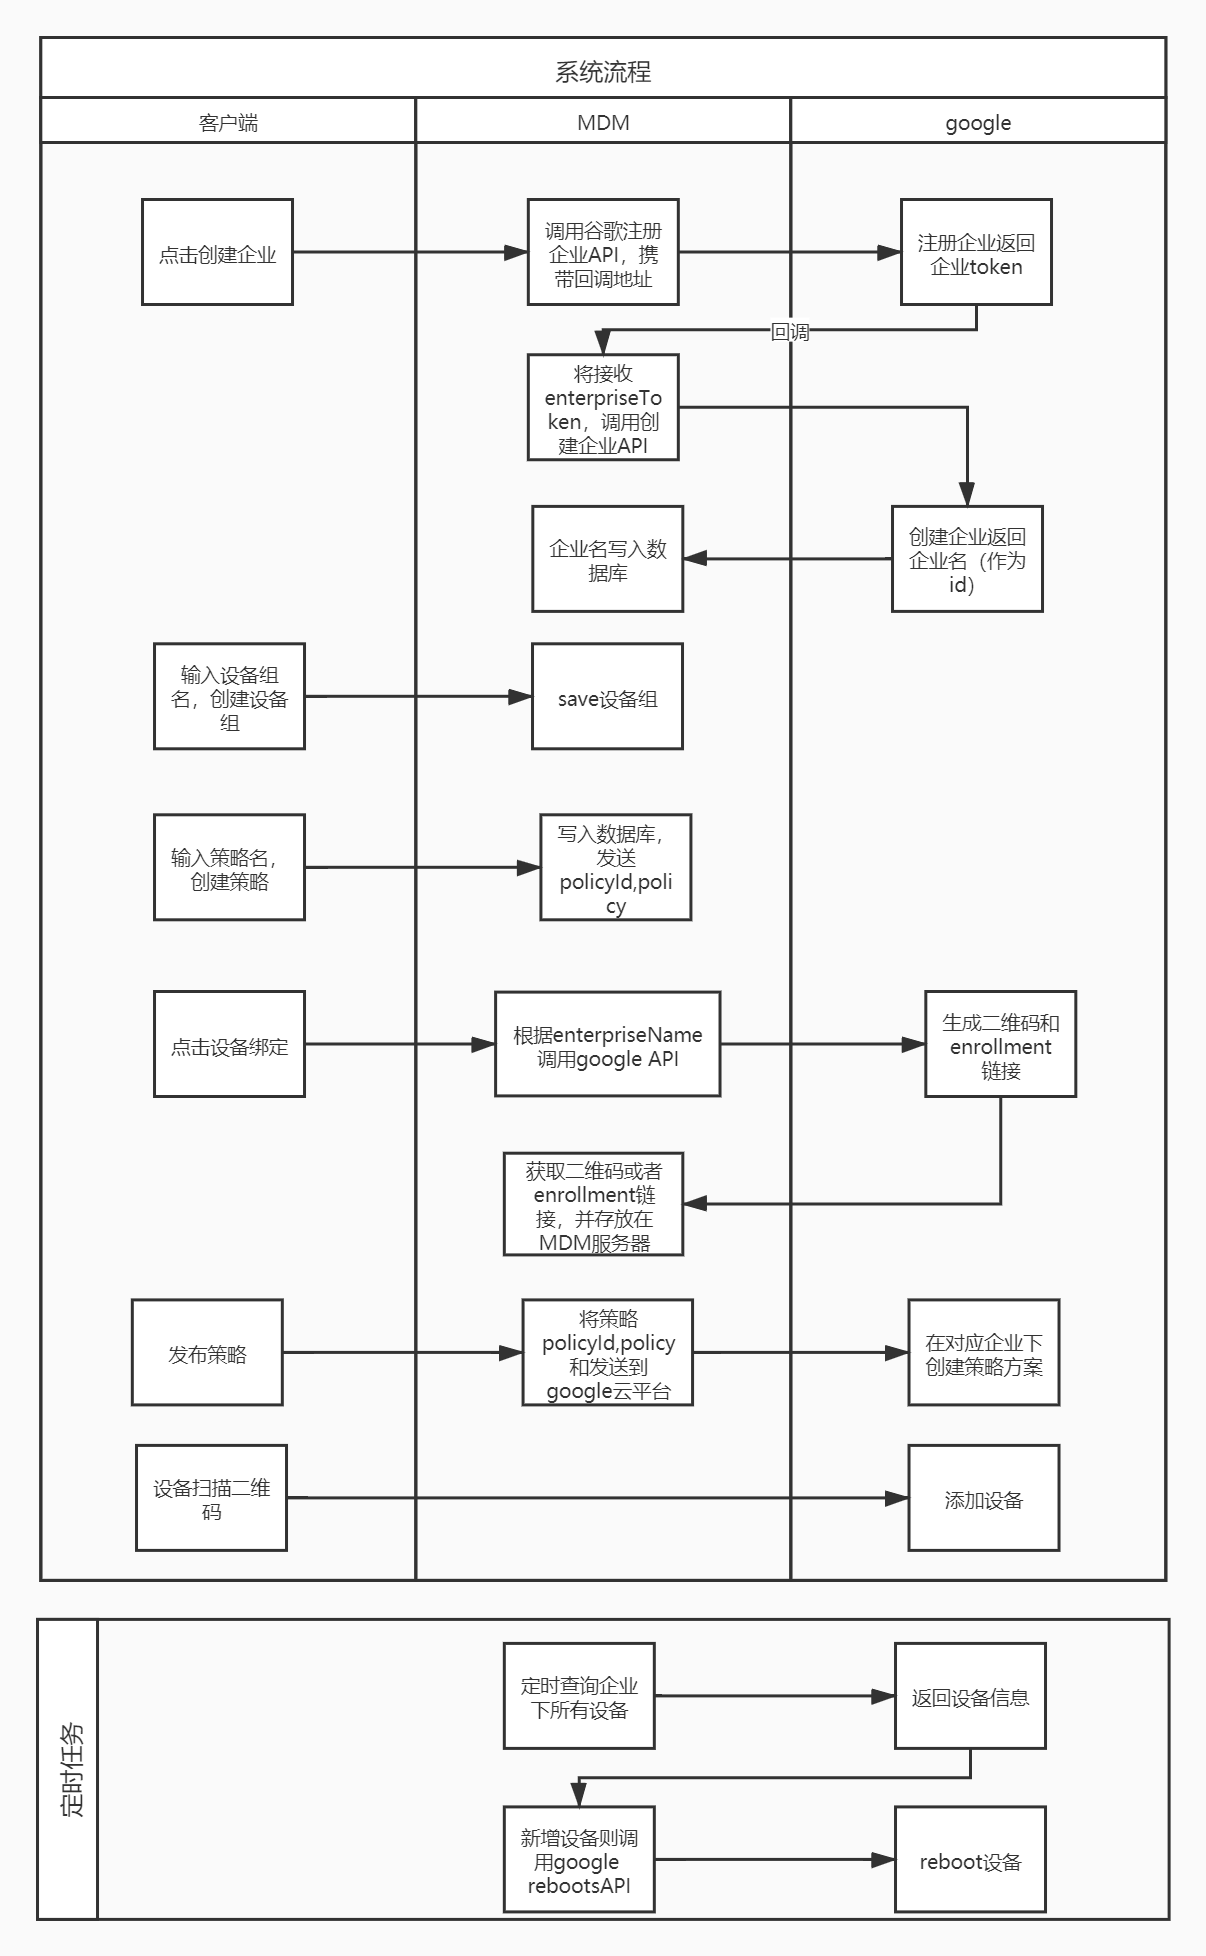
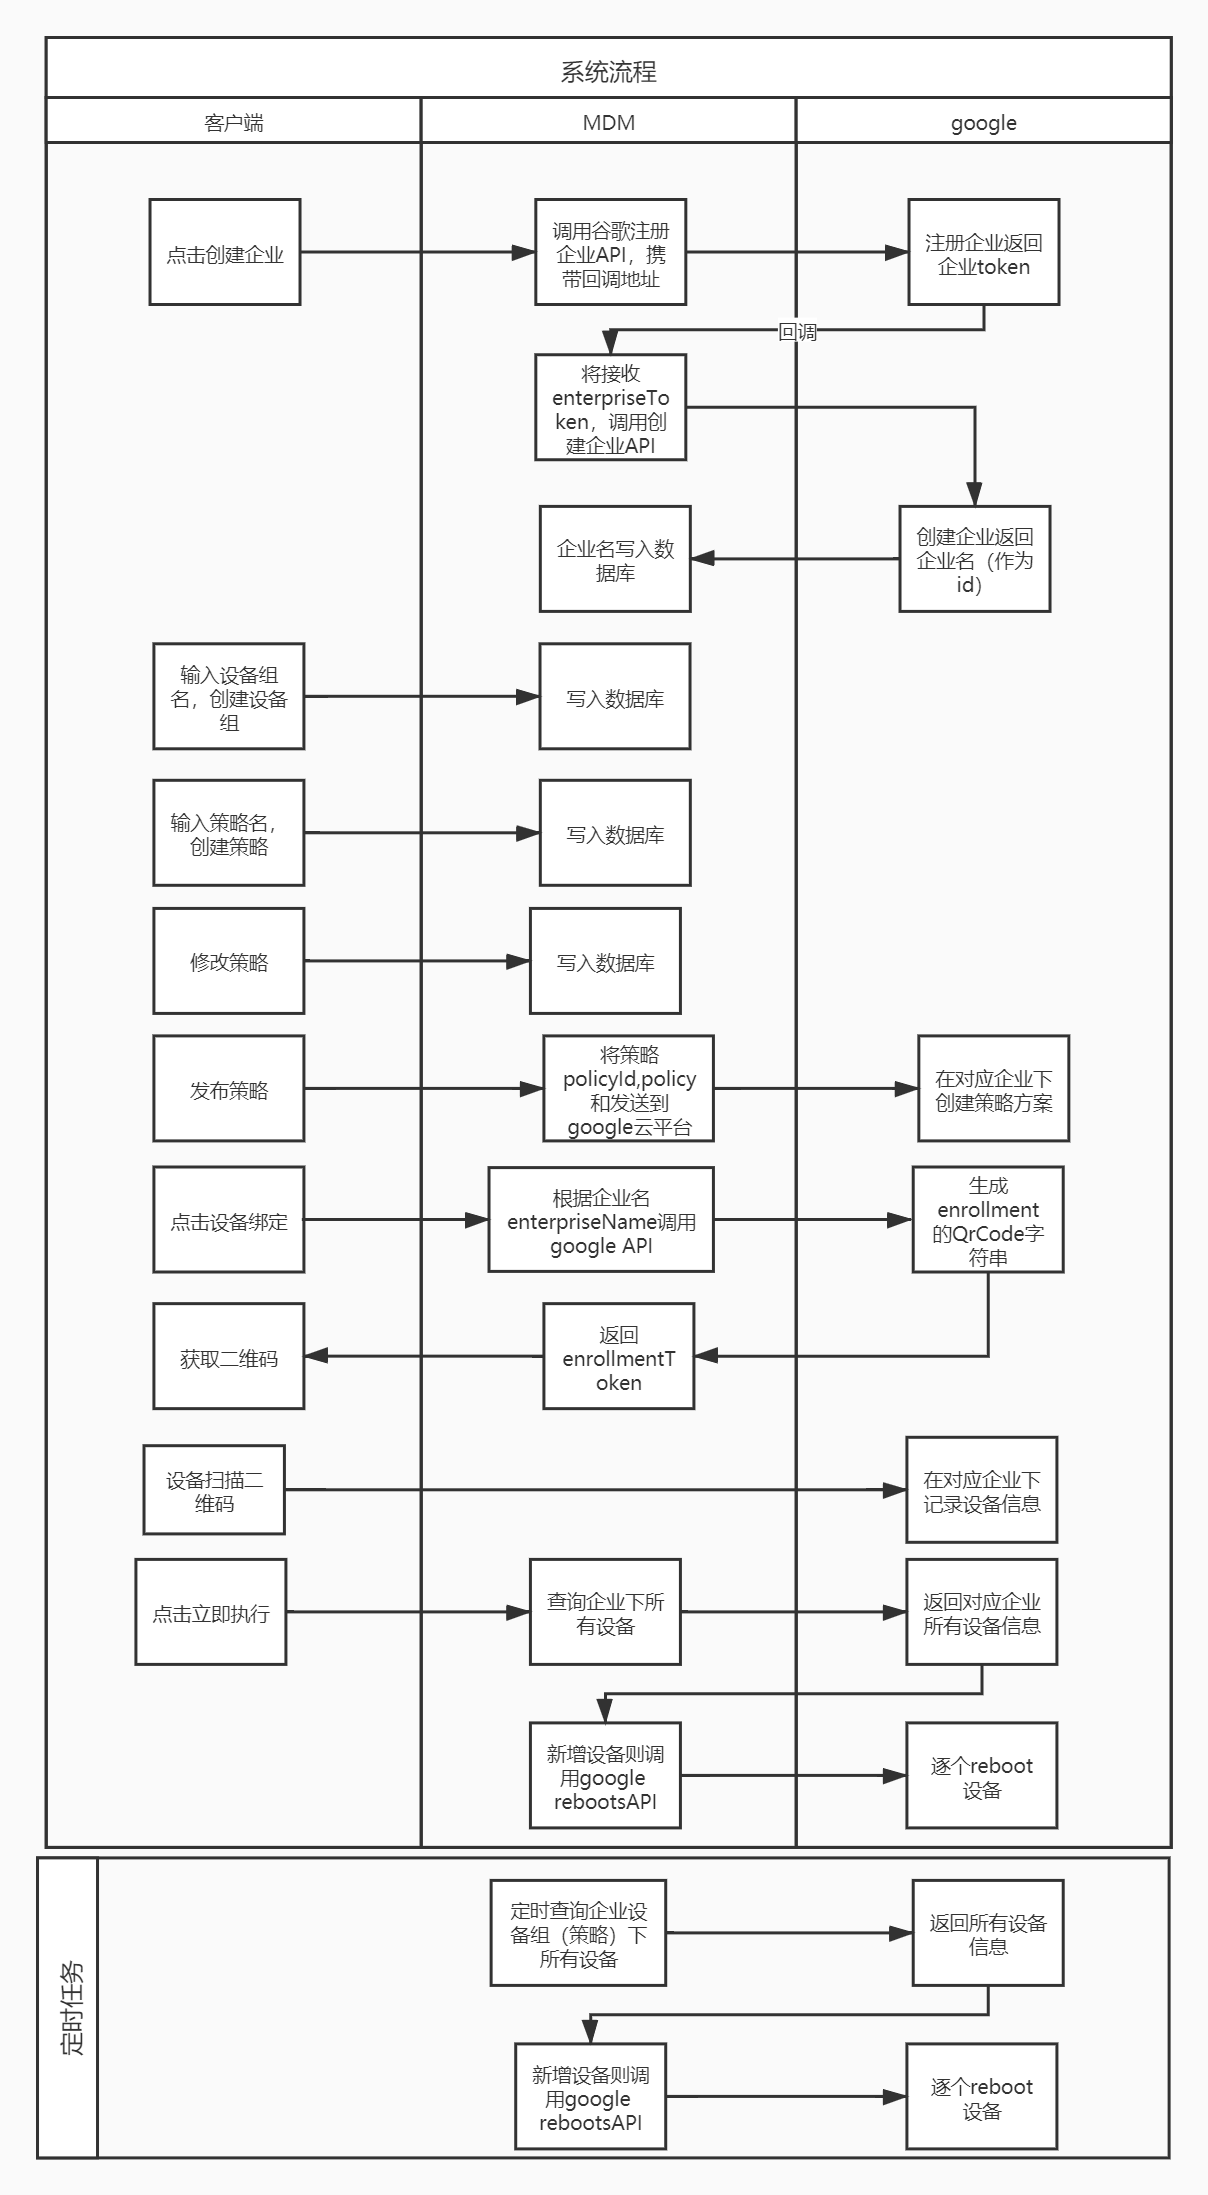
l

Changed region(s): [[0.0307, 0.0, 0.9818, 0.998]]

diff --git a/note.md b/note.md
@@ -2203,6 +2203,8 @@ Access-Control-Allow-Credentials="true";//允许使用cookies
 
 #### Spring 的@CrossOrigin注解
 
+作用在Controller方法或者类上。
+
 ```java
 @CrossOrigin(origins="http://www.a.com:8888",allowCredentials = "true")
 ```
@@ -4245,7 +4247,7 @@ int updateById(@Param(Constants.ENTITY) T entity);
 
 ### AbstractWrapper
 
-	QueryWrapper(LambdaQueryWrapper) 和UpdateWrapper(LambdaUpdateWrapper) 的父类用于生成 sql 的 where 条件, entity 属性也用于生成 sql 的 where 条件。
+	是QueryWrapper(LambdaQueryWrapper) 和UpdateWrapper(LambdaUpdateWrapper) 的父类用于生成 sql 的 where 条件, entity 属性也用于生成 sql 的 where 条件。
 	注意: entity 生成的 where 条件与 使用各个 api 生成的 where 条件**没有任何关联行为**。
 
 ### QueryWrapper与LambdaQueryWrapper
@@ -6973,15 +6975,19 @@ https://developers.google.com/android/management/quickstart
 
 	MDM项目通过项目和用户信息，创建企业、策略，添加设备。设备重启便自动执行策略。
 
-![MDM (4)](.\src\main\resources\img\MDM -3.jpg)
+![MDM (8)](.\src\main\resources\img\MDM -3.jpg)
 
 
 
-	设备怎么接收到策略呢。策略更新后便自动下载？
+问题
 
-	策略存放在哪儿呢，google云平台还是联想服务器？
+\1. 设备量很大，该存放在哪，redis?mysql？
 
-	策略MDM保存，再次发布时发送给google，设备存在google
+\2. 怎么快速查询出新设备
+
+\3. 事务处理用spring？是否过于繁重？
+
+设备处理以google云平台为准，定时（比如每天）从google云平台获取，
 
 
 
@@ -6999,23 +7005,160 @@ https://developers.google.com/android/management/quickstart
 
 
 
-![MDM](C:\Users\zhongbl1\IdeaProjects\springboot-login-master\src\main\resources\img\MDM.jpg)
+![123 (1)](.\src\main\resources\img\MDM-1.jpg)
 
 
 
 
 
-![MDM (1)](.\src\main\resources\img\MDM -1.jpg)
+### API
 
+```java
+//创建注册地址
+//主要是返回enterprisetoken，便于后续创建企业
+signupUrl = androidManagementClient//为什么需要这一步
+                        .signupUrls()
+                        .create()
+                        .setProjectId(PROJECT_ID)
+                        .setCallbackUrl("https://localhost:9999")
+                        .execute();
 
+//创建企业
+return androidManagementClient
+                .enterprises()
+                .create(new Enterprise())
+                .setProjectId(PROJECT_ID)
+                .setSignupUrlName(signupUrl.getName())
+                .setEnterpriseToken(enterpriseToken)
+                .execute()
+                .getName();
 
-![123](.\src\main\resources\img\MDM-2.jpg)
+//发布策略
+String name = enterpriseName + "/policies/" + policyId;
+androidManagementClient
+                .enterprises()
+                .policies()
+                .patch(name, policy)
+                .execute();
+
+//获取Qr Code，也可以直接获取二维码
+androidManagementClient
+                .enterprises()
+                .enrollmentTokens()
+                .create(enterpriseName, token)
+                .execute()
+                .getQrCode();
+
+//根据enterpriseName获取所有设备
+ListDevicesResponse response =
+                androidManagementClient
+                        .enterprises()
+                        .devices()
+                        .list(enterpriseName)
+                        .execute();
+        return response.getDevices() == null
+                ? new ArrayList<>() : response.getDevices();
+
+//重置一个设备
+androidManagementClient
+                .enterprises()
+                .devices()
+                .issueCommand(device.getName(), command)
+                .execute();
+```
+
+### 生成二维码
+
+```java
+//通过QRCode生成二维码
+/**
+ *  Maven依赖
+ *         <dependency>
+ *             <groupId>com.google.zxing</groupId>
+ *             <artifactId>core</artifactId>
+ *             <version>3.1.0</version>
+ *         </dependency>
+ *         <dependency>
+ *             <groupId>com.google.zxing</groupId>
+ *             <artifactId>javase</artifactId>
+ *             <version>3.1.0</version>
+ *         </dependency>
+ *
+ *  主要方法
+ *   QRCodeWriter qrCodeWriter = new QRCodeWriter();
+ *   BitMatrix bitMatrix = qrCodeWriter.encode(QRCode, BarcodeFormat.QR_CODE, 350, 350);
+ */
+package com.example.androidtest01.controller;
+import java.io.File;
+import java.io.IOException;
+import java.io.PrintWriter;
+import java.nio.file.FileSystems;
+import java.nio.file.Path;
+import java.text.SimpleDateFormat;
+import java.util.Date;
+import java.util.UUID;
+
+import com.google.zxing.BarcodeFormat;//调用Google的zxing根据Qr Code生成二维码图片
+import com.google.zxing.WriterException;
+import com.google.zxing.client.j2se.MatrixToImageWriter;
+import com.google.zxing.common.BitMatrix;
+import com.google.zxing.qrcode.QRCodeWriter;
+
+public class QRCodeUtil {
+    private static void generateQRCodeImage(String text, int width, int height) throws WriterException, IOException {
+        File file=new File("./QRCode/");
+        if(!file.exists()){//如果文件夹不存在
+            //file.mkdir();创建单个文件夹
+            file.mkdirs();//mkdirs创建多级文件夹
+        }
+        UUID   uuid = UUID.randomUUID();
+        String guid=uuid.toString();
+        String filePath="./QRCode/"+guid+".png";
+        System.out.println("************"+filePath);
+        String QRCode = "www.baidu.com";
+        try {
+            QRCodeWriter qrCodeWriter = new QRCodeWriter();
+            BitMatrix bitMatrix = qrCodeWriter.encode(QRCode, BarcodeFormat.QR_CODE, 350, 350);
+            //这个java.nio.file.FileSystems必须在1.7以上才可以
+            Path path = FileSystems.getDefault().getPath(filePath);
+            MatrixToImageWriter.writeToPath(bitMatrix, "PNG", path);
+        } catch (WriterException e) {
+            System.out.println("未能正常生成二维码，WriterException :: " + e.getMessage());
+        } catch (IOException e) {
+            System.out.println("未能正常生成二维码, IOException :: " + e.getMessage());
+        }
+    }
+
+    public static void main(String[] args) {
+        try {
+            generateQRCodeImage("This is my first QR Code", 350, 350);
+        } catch (WriterException e) {
+            System.out.println("Could not generate QR Code, WriterException :: " + e.getMessage());
+        } catch (IOException e) {
+            System.out.println("Could not generate QR Code, IOException :: " + e.getMessage());
+        }
+    }
+}
+```
 
 
 
 
 
 ```json
+//QRCode的json
+{
+  "android.app.extra.PROVISIONING_DEVICE_ADMIN_COMPONENT_NAME":"com.google.android.apps.work.clouddpc/.receivers.CloudDeviceAdminReceiver",
+  "android.app.extra.PROVISIONING_DEVICE_ADMIN_SIGNATURE_CHECKSUM":"I5YvS0O5hXY46mb01BlRjq4oJJGs2kuUcHvVkAPEXlg",
+  "android.app.extra.PROVISIONING_DEVICE_ADMIN_PACKAGE_DOWNLOAD_LOCATION":"https://play.google.com/managed/downloadManagingApp?identifier=setup",
+  "android.app.extra.PROVISIONING_ADMIN_EXTRAS_BUNDLE":{"com.google.android.apps.work.clouddpc.EXTRA_ENROLLMENT_TOKEN":"DIWSNCPXDXGHROHZBAFS"}
+}
+```
+
+
+
+```json
+//设备信息json
 {
   "devices": [
     {
@@ -7102,60 +7245,6 @@ https://developers.google.com/android/management/quickstart
 
 
 
-```java
-//创建注册地址
-//主要是返回enterprisetoken，便于后续创建企业
-signupUrl = androidManagementClient//为什么需要这一步
-                        .signupUrls()
-                        .create()
-                        .setProjectId(PROJECT_ID)
-                        .setCallbackUrl("https://localhost:9999")
-                        .execute();
-
-//创建企业
-return androidManagementClient
-                .enterprises()
-                .create(new Enterprise())
-                .setProjectId(PROJECT_ID)
-                .setSignupUrlName(signupUrl.getName())
-                .setEnterpriseToken(enterpriseToken)
-                .execute()
-                .getName();
-
-//设置策略
-String name = enterpriseName + "/policies/" + policyId;
-androidManagementClient
-                .enterprises()
-                .policies()
-                .patch(name, policy)
-                .execute();
-
-//根据enterpriseName获取所有设备
-ListDevicesResponse response =
-                androidManagementClient
-                        .enterprises()
-                        .devices()
-                        .list(enterpriseName)
-                        .execute();
-        return response.getDevices() == null
-                ? new ArrayList<>() : response.getDevices();
-
-//重置一个设备
-androidManagementClient
-                .enterprises()
-                .devices()
-                .issueCommand(device.getName(), command)
-                .execute();
-```
-
-
-
-
-
-
-
-
-
 
 
 ## 表格插入
@@ -7188,3 +7277,4 @@ androidManagementClient
 4. 自行解决问题，少打扰他人
 5. 学会沟通，被问进度时如实回答；正在做，做完了，做的一半中途在做别的，在做别的还没开始做。
 6. 公司任何东西不能发到云端。
+7. 与leader意见不一致时，仔细思考自己与他的设计的区别。倘若还是觉得有问题，再向他请教这么设计的原因，请教自己所想的设计方案缺点。
